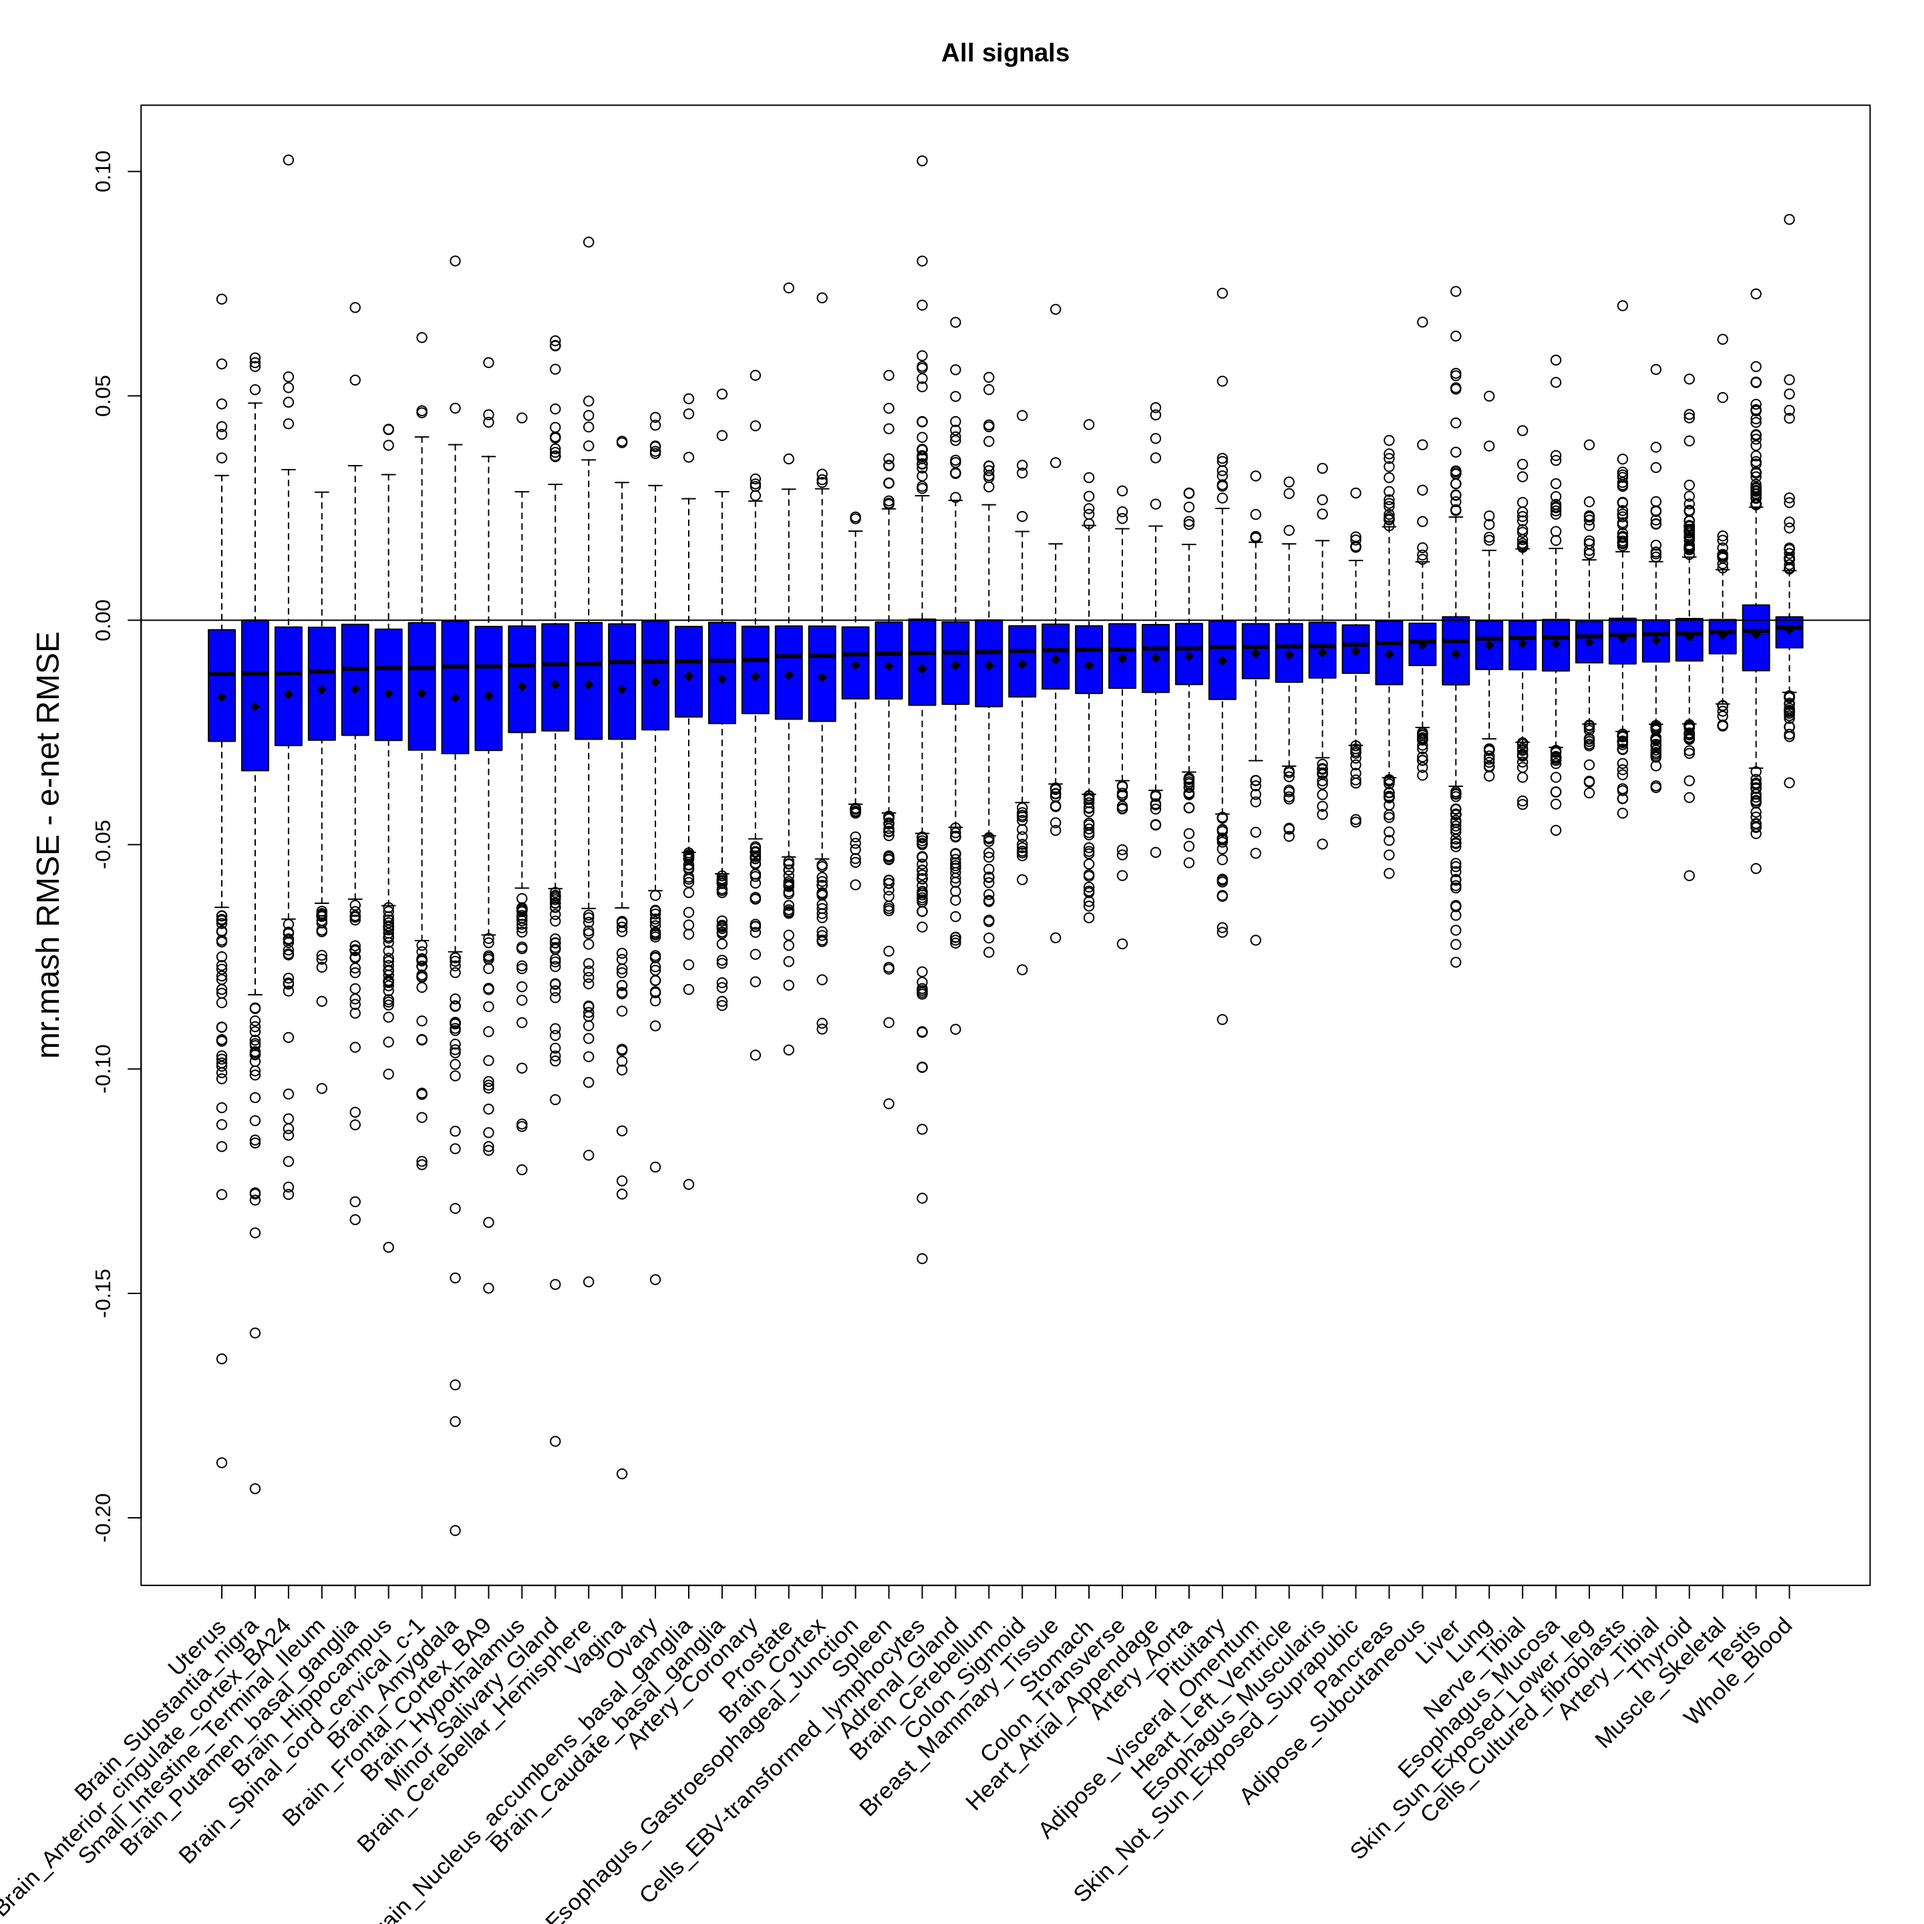
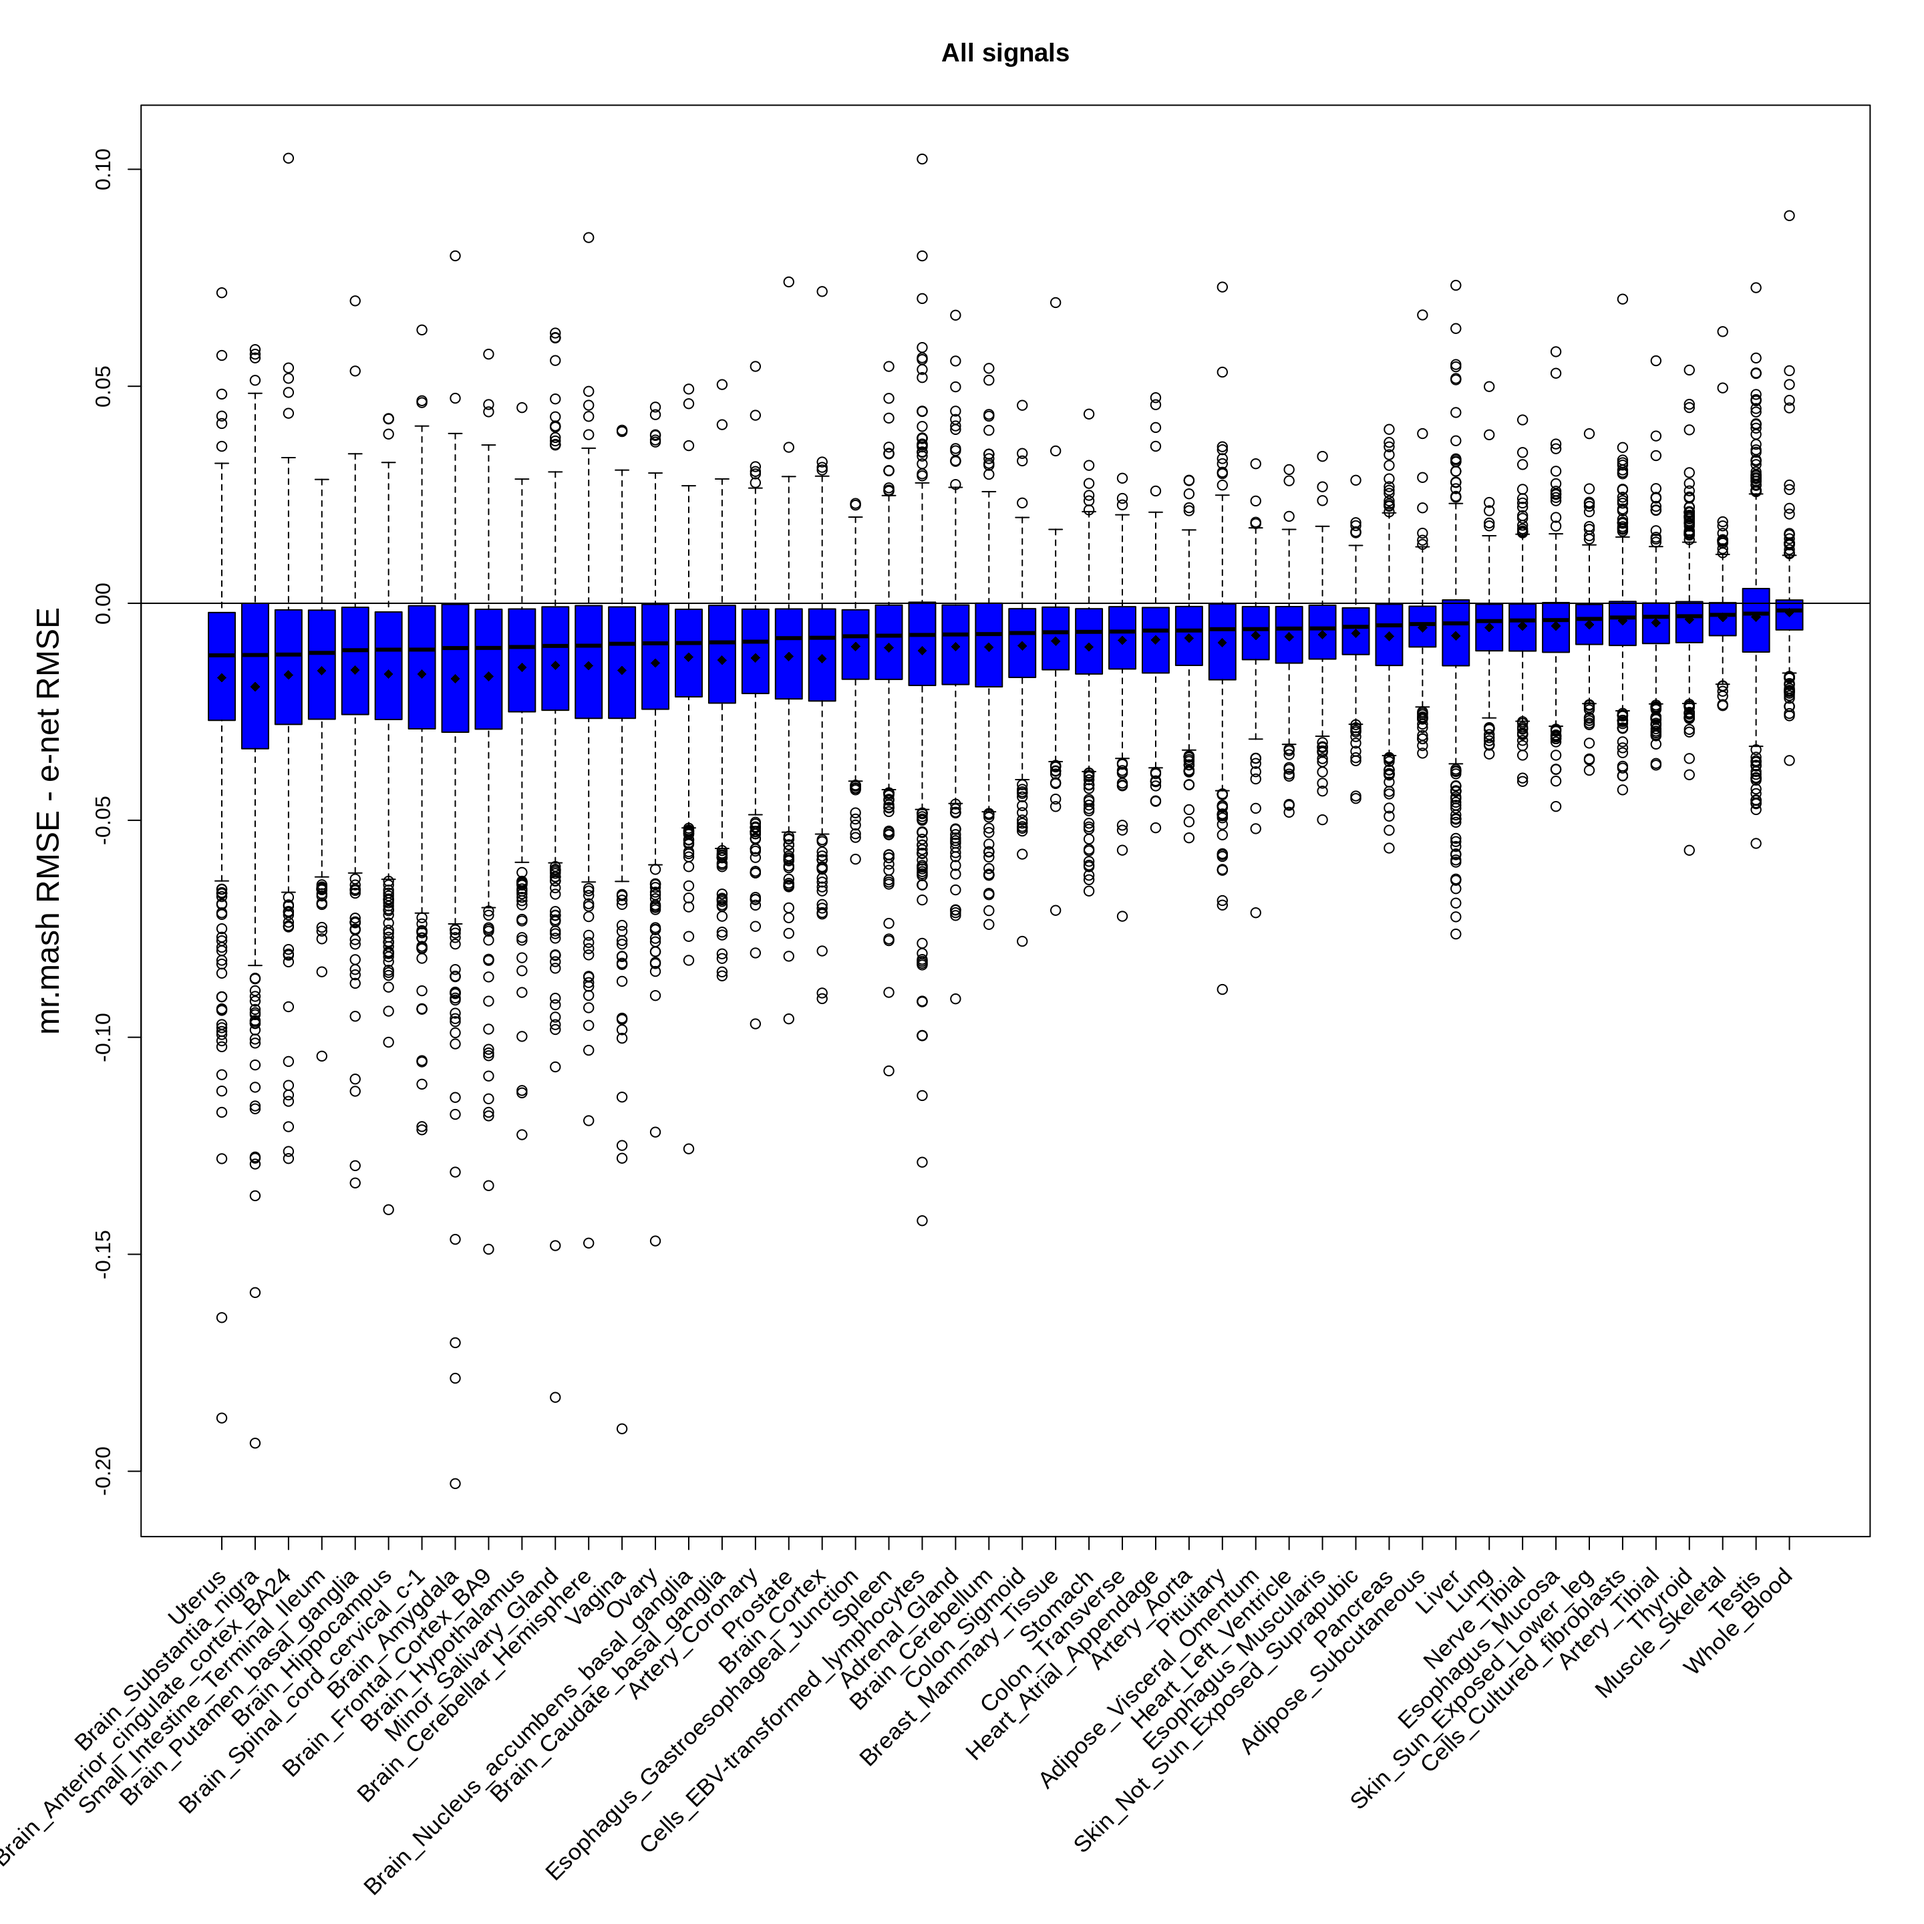
Build site.

diff --git a/docs/results_gtex_1000genes.html b/docs/results_gtex_1000genes.html
@@ -488,16 +488,16 @@ This reproducible <a href="http://rmarkdown.rstudio.com">R Markdown</a> analysis
 <div class="panel panel-default">
 <div class="panel-heading">
 <p class="panel-title">
-<a data-toggle="collapse" data-parent="#workflowr-checks" href="#strongRepositoryversionstrongahrefhttpsgithubcomfmorgantemrmashtesttreeca2b0584f22846c4b380d72dc8ade80aa2f171f1targetblankca2b058a"> <span class="glyphicon glyphicon-ok text-success" aria-hidden="true"></span> <strong>Repository version:</strong> <a href="https://github.com/fmorgante/mr_mash_test/tree/ca2b0584f22846c4b380d72dc8ade80aa2f171f1" target="_blank">ca2b058</a> </a>
+<a data-toggle="collapse" data-parent="#workflowr-checks" href="#strongRepositoryversionstrongahrefhttpsgithubcomfmorgantemrmashtesttree0214f314ccff45101f6e3cf302fb349010a933f5targetblank0214f31a"> <span class="glyphicon glyphicon-ok text-success" aria-hidden="true"></span> <strong>Repository version:</strong> <a href="https://github.com/fmorgante/mr_mash_test/tree/0214f314ccff45101f6e3cf302fb349010a933f5" target="_blank">0214f31</a> </a>
 </p>
 </div>
[2 lines of base64/hex data omitted]
 <div class="panel-body">
 <p>
 Great! You are using Git for version control. Tracking code development and connecting the code version to the results is critical for reproducibility.
 </p>
 <p>
-The results in this page were generated with repository version <a href="https://github.com/fmorgante/mr_mash_test/tree/ca2b0584f22846c4b380d72dc8ade80aa2f171f1" target="_blank">ca2b058</a>. See the <em>Past versions</em> tab to see a history of the changes made to the R Markdown and HTML files.
+The results in this page were generated with repository version <a href="https://github.com/fmorgante/mr_mash_test/tree/0214f314ccff45101f6e3cf302fb349010a933f5" target="_blank">0214f31</a>. See the <em>Past versions</em> tab to see a history of the changes made to the R Markdown and HTML files.
 </p>
 <p>
 Note that you need to be careful to ensure that all relevant files for the analysis have been committed to Git prior to generating the results (you can use <code>wflow_publish</code> or <code>wflow_git_commit</code>). workflowr only checks the R Markdown file, but you know if there are other scripts or data files that it depends on. Below is the status of the Git repository when the results were generated:
@@ -2886,6 +2886,40 @@ Message
 Rmd
 </td>
 <td>
+<a href="https://github.com/fmorgante/mr_mash_test/blob/0214f314ccff45101f6e3cf302fb349010a933f5/analysis/results_gtex_1000genes.Rmd" target="_blank">0214f31</a>
+</td>
+<td>
+Fabio Morgante
+</td>
+<td>
+2022-05-10
+</td>
+<td>
+Fix lower margin
+</td>
+</tr>
+<tr>
+<td>
+html
+</td>
+<td>
+<a href="https://rawcdn.githack.com/fmorgante/mr_mash_test/94e6521e6cba3f2b9f056ad354ac960af3a3f822/docs/results_gtex_1000genes.html" target="_blank">94e6521</a>
+</td>
+<td>
+Fabio Morgante
+</td>
+<td>
+2022-05-10
+</td>
+<td>
+Build site.
+</td>
+</tr>
+<tr>
+<td>
+Rmd
+</td>
+<td>
 <a href="https://github.com/fmorgante/mr_mash_test/blob/ca2b0584f22846c4b380d72dc8ade80aa2f171f1/analysis/results_gtex_1000genes.Rmd" target="_blank">ca2b058</a>
 </td>
 <td>
@@ -3725,7 +3759,7 @@ means &lt;- tapply(rmse_diff_melt$RMSE_diff, rmse_diff_melt$Tissue, mean, na.rm=
 n_group &lt;- ncol(rmse_diff)
 
 ###Plot
-par(mar = c(13.1,5.4,4,2) + 0.1)
+par(mar = c(15,5.4,4,2) + 0.1)
 boxplot(RMSE_diff~Tissue, data=rmse_diff_melt, xlab=&quot;&quot;, ylab=&quot;mr.mash RMSE - e-net RMSE&quot;, #ylab=&quot;(mr.mash RMSE - e-net RMSE)/e-net RMSE&quot;, 
          cex.lab=1.5, xaxt = &quot;n&quot;, col = &quot;blue&quot;, bty = &quot;n&quot;, main=&quot;All signals&quot;)
 points(means,col=&quot;black&quot;,pch=18)
@@ -3758,6 +3792,17 @@ Date
 </tr>
 </thead>
 <tbody>
+<tr>
+<td>
+<a href="https://github.com/fmorgante/mr_mash_test/blob/94e6521e6cba3f2b9f056ad354ac960af3a3f822/docs/figure/results_gtex_1000genes.Rmd/box by tissue-1.png" target="_blank">94e6521</a>
+</td>
+<td>
+Fabio Morgante
+</td>
+<td>
+2022-05-10
+</td>
+</tr>
 <tr>
 <td>
 <a href="https://github.com/fmorgante/mr_mash_test/blob/76f4680cb6e66775b1f15f6b1066965fc9ade121/docs/figure/results_gtex_1000genes.Rmd/box by tissue-1.png" target="_blank">76f4680</a>

diff --git a/docs/index.html b/docs/index.html
@@ -348,16 +348,16 @@ This reproducible <a href="http://rmarkdown.rstudio.com">R Markdown</a> analysis
 <div class="panel panel-default">
 <div class="panel-heading">
 <p class="panel-title">
-<a data-toggle="collapse" data-parent="#workflowr-checks" href="#strongRepositoryversionstrongahrefhttpsgithubcomfmorgantemrmashtesttreeca2b0584f22846c4b380d72dc8ade80aa2f171f1targetblankca2b058a"> <span class="glyphicon glyphicon-ok text-success" aria-hidden="true"></span> <strong>Repository version:</strong> <a href="https://github.com/fmorgante/mr_mash_test/tree/ca2b0584f22846c4b380d72dc8ade80aa2f171f1" target="_blank">ca2b058</a> </a>
+<a data-toggle="collapse" data-parent="#workflowr-checks" href="#strongRepositoryversionstrongahrefhttpsgithubcomfmorgantemrmashtesttree0214f314ccff45101f6e3cf302fb349010a933f5targetblank0214f31a"> <span class="glyphicon glyphicon-ok text-success" aria-hidden="true"></span> <strong>Repository version:</strong> <a href="https://github.com/fmorgante/mr_mash_test/tree/0214f314ccff45101f6e3cf302fb349010a933f5" target="_blank">0214f31</a> </a>
 </p>
 </div>
[2 lines of base64/hex data omitted]
 <div class="panel-body">
 <p>
 Great! You are using Git for version control. Tracking code development and connecting the code version to the results is critical for reproducibility.
 </p>
 <p>
-The results in this page were generated with repository version <a href="https://github.com/fmorgante/mr_mash_test/tree/ca2b0584f22846c4b380d72dc8ade80aa2f171f1" target="_blank">ca2b058</a>. See the <em>Past versions</em> tab to see a history of the changes made to the R Markdown and HTML files.
+The results in this page were generated with repository version <a href="https://github.com/fmorgante/mr_mash_test/tree/0214f314ccff45101f6e3cf302fb349010a933f5" target="_blank">0214f31</a>. See the <em>Past versions</em> tab to see a history of the changes made to the R Markdown and HTML files.
 </p>
 <p>
 Note that you need to be careful to ensure that all relevant files for the analysis have been committed to Git prior to generating the results (you can use <code>wflow_publish</code> or <code>wflow_git_commit</code>). workflowr only checks the R Markdown file, but you know if there are other scripts or data files that it depends on. Below is the status of the Git repository when the results were generated:
@@ -2741,6 +2741,23 @@ Message
 </tr>
 </thead>
 <tbody>
+<tr>
+<td>
+html
+</td>
+<td>
+<a href="https://rawcdn.githack.com/fmorgante/mr_mash_test/94e6521e6cba3f2b9f056ad354ac960af3a3f822/docs/index.html" target="_blank">94e6521</a>
+</td>
+<td>
+Fabio Morgante
+</td>
+<td>
+2022-05-10
+</td>
+<td>
+Build site.
+</td>
+</tr>
 <tr>
 <td>
 html
